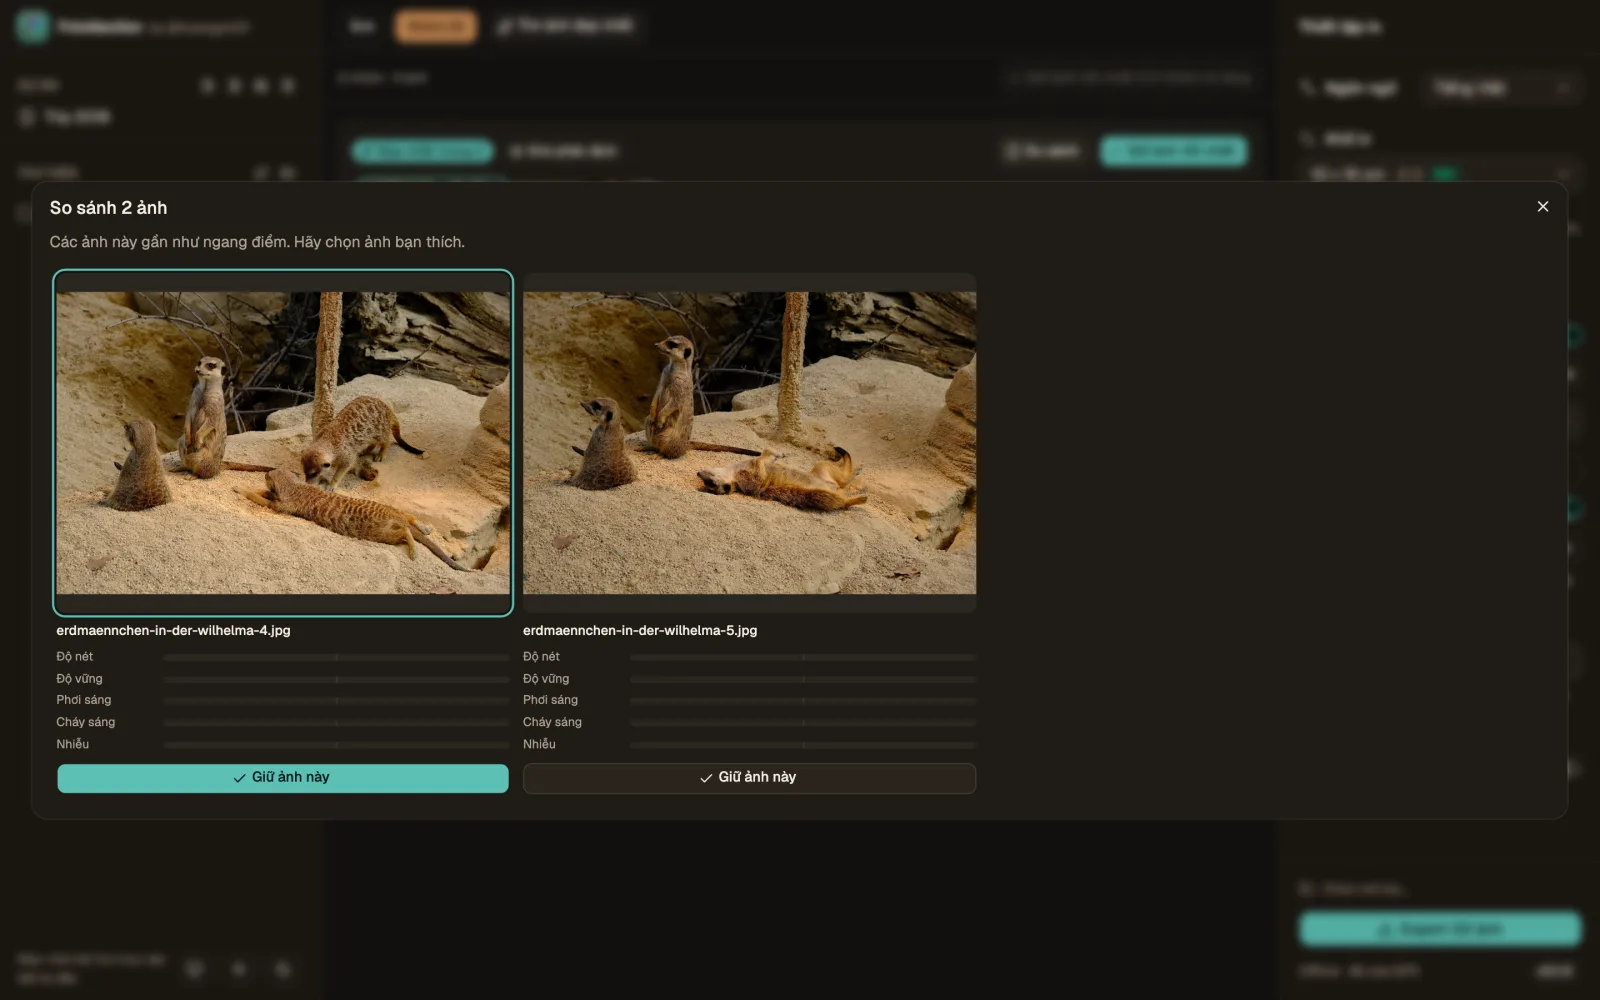
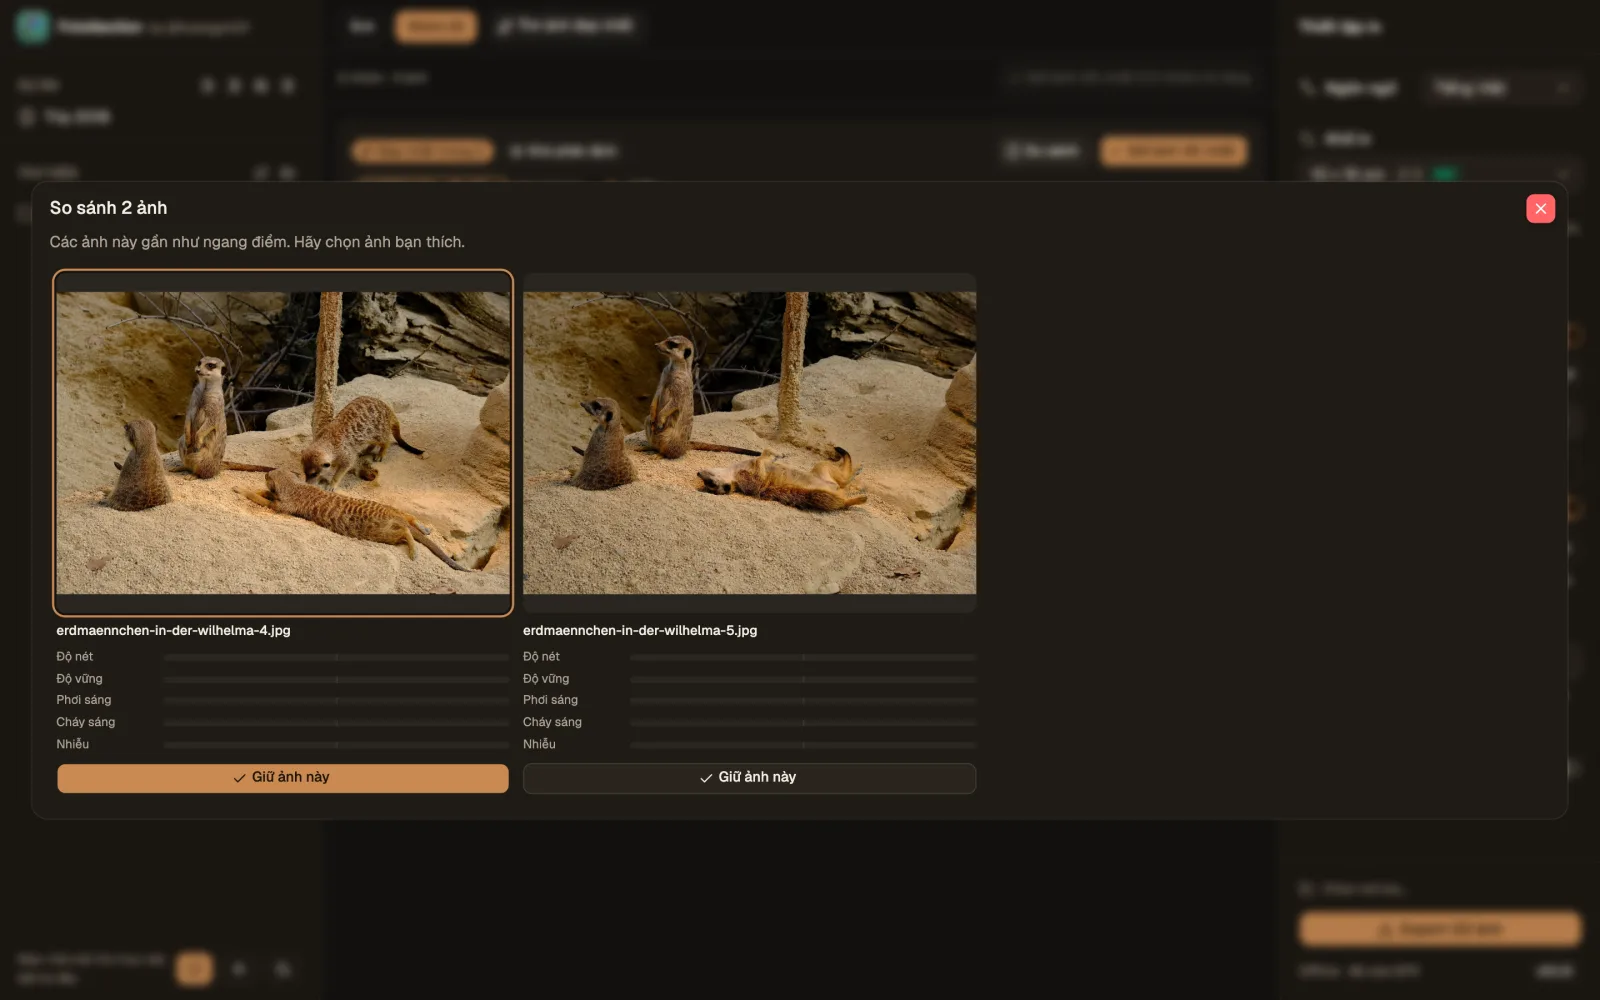
fix(ui): one accent per mode, teal in light and wood in dark; theme switch shows its choice [FR-052]
primary is now the wood colour in dark mode, so buttons, switches,
checkboxes, selection rings and badges change together instead of
mixing teal and brown; the toggle no longer needs its own dark override
and the selected photo ring uses primary. The website's dark mode
follows. The theme switch lost its selected fill because a Radix
tooltip trigger overwrote data-state; it now uses data-hint. STYLE_RULE
§4 records the rule. Website screenshots regenerated.

diff --git a/ui/src/index.css b/ui/src/index.css
@@ -51,8 +51,8 @@
 }
 
 :root {
-    /* Colours from the logo (STYLE_RULE §4): the teal tile for primary actions, the wooden
-       frame as the second brand colour, a faint cream around the chrome. Surfaces next to
+    /* Colours from the logo (STYLE_RULE §4): primary is the teal tile in light mode and the
+       wooden frame in dark mode, never both at once; a faint cream around the chrome. Surfaces next to
        photos stay close to neutral (chroma ≤ 0.01) so they don't shift how colours read. */
     --background: oklch(0.988 0.006 88);
     --foreground: oklch(0.2 0.015 65);
@@ -97,18 +97,18 @@
     --card-foreground: oklch(0.95 0.015 85);
     --popover: oklch(0.225 0.012 70);
     --popover-foreground: oklch(0.95 0.015 85);
-    --primary: oklch(0.744 0.096 185);
-    --primary-foreground: oklch(0.2 0.03 180);
+    --primary: oklch(0.685 0.106 61.2);
+    --primary-foreground: oklch(0.2 0.03 60);
     --secondary: oklch(0.28 0.016 70);
     --secondary-foreground: oklch(0.95 0.015 85);
     --muted: oklch(0.27 0.012 70);
     --muted-foreground: oklch(0.72 0.025 80);
-    --accent: oklch(0.3 0.035 180);
+    --accent: oklch(0.3 0.035 60);
     --accent-foreground: oklch(0.95 0.015 85);
     --destructive: oklch(0.704 0.191 22.216);
     --border: oklch(0.95 0.03 85 / 11%);
     --input: oklch(0.95 0.03 85 / 16%);
-    --ring: oklch(0.687 0.093 187.1);
+    --ring: oklch(0.685 0.106 61.2);
     --wood: oklch(0.685 0.106 61.2);
     --wood-foreground: oklch(0.2 0.03 60);
     --chart-1: oklch(0.744 0.096 185);
@@ -118,12 +118,12 @@
     --chart-5: oklch(0.6 0.104 54);
     --sidebar: oklch(0.21 0.012 70);
     --sidebar-foreground: oklch(0.95 0.015 85);
-    --sidebar-primary: oklch(0.744 0.096 185);
-    --sidebar-primary-foreground: oklch(0.2 0.03 180);
+    --sidebar-primary: oklch(0.685 0.106 61.2);
+    --sidebar-primary-foreground: oklch(0.2 0.03 60);
     --sidebar-accent: oklch(0.27 0.016 70);
     --sidebar-accent-foreground: oklch(0.95 0.015 85);
     --sidebar-border: oklch(0.95 0.03 85 / 10%);
-    --sidebar-ring: oklch(0.687 0.093 187.1);
+    --sidebar-ring: oklch(0.685 0.106 61.2);
 }
 
 @layer base {

diff --git a/ui/src/components/ui/toggle.tsx b/ui/src/components/ui/toggle.tsx
@@ -4,7 +4,7 @@ import { cn } from "cn"
 import { Toggle as TogglePrimitive } from "radix-ui"
 
 const toggleVariants = cva(
-  "group/toggle inline-flex items-center justify-center gap-1 rounded-lg text-sm font-medium whitespace-nowrap transition-all outline-none hover:bg-muted hover:text-foreground focus-visible:border-ring focus-visible:ring-[3px] focus-visible:ring-ring/50 disabled:pointer-events-none disabled:opacity-50 aria-invalid:border-destructive aria-invalid:ring-destructive/20 aria-pressed:bg-primary aria-pressed:text-primary-foreground data-[state=on]:border-primary data-[state=on]:bg-primary data-[state=on]:text-primary-foreground data-[state=on]:hover:bg-primary/90 dark:aria-pressed:bg-wood dark:aria-pressed:text-wood-foreground dark:data-[state=on]:border-wood dark:data-[state=on]:bg-wood dark:data-[state=on]:text-wood-foreground dark:data-[state=on]:hover:bg-wood/90 dark:aria-invalid:ring-destructive/40 [&_svg]:pointer-events-none [&_svg]:shrink-0 [&_svg:not([class*='size-'])]:size-4",
+  "group/toggle inline-flex items-center justify-center gap-1 rounded-lg text-sm font-medium whitespace-nowrap transition-all outline-none hover:bg-muted hover:text-foreground focus-visible:border-ring focus-visible:ring-[3px] focus-visible:ring-ring/50 disabled:pointer-events-none disabled:opacity-50 aria-invalid:border-destructive aria-invalid:ring-destructive/20 aria-pressed:bg-primary aria-pressed:text-primary-foreground data-[state=on]:border-primary data-[state=on]:bg-primary data-[state=on]:text-primary-foreground data-[state=on]:hover:bg-primary/90 dark:aria-invalid:ring-destructive/40 [&_svg]:pointer-events-none [&_svg]:shrink-0 [&_svg:not([class*='size-'])]:size-4",
   {
     variants: {
       variant: {

diff --git a/ui/src/features/appearance/theme-switch.tsx b/ui/src/features/appearance/theme-switch.tsx
@@ -3,7 +3,6 @@ import { Monitor, Moon, Sun } from 'lucide-react'
 import { useEffect } from 'react'
 import { useTranslation } from 'react-i18next'
 import { ToggleGroup, ToggleGroupItem } from '@/components/ui/toggle-group'
-import { Tooltip, TooltipContent, TooltipTrigger } from '@/components/ui/tooltip'
 import { useUiSettings } from '@/features/settings/use-ui-settings'
 import type { ThemePreference } from '@/ipc/bindings'
 import { setThemePreference } from '@/lib/theme'
@@ -31,18 +30,16 @@ export function ThemeSwitch() {
       aria-label={t('theme.label')}
     >
       {OPTIONS.map(({ value, Icon }) => (
-        <Tooltip key={value}>
-          <TooltipTrigger asChild>
-            <ToggleGroupItem
-              value={value}
-              aria-label={t(`theme.${value}`)}
-              className="px-2"
-            >
-              <Icon className="size-3.5" />
-            </ToggleGroupItem>
-          </TooltipTrigger>
-          <TooltipContent>{t(`theme.${value}`)}</TooltipContent>
-        </Tooltip>
+        // A Radix tooltip trigger would overwrite the item's data-state, hiding which one is on.
+        <ToggleGroupItem
+          key={value}
+          value={value}
+          aria-label={t(`theme.${value}`)}
+          data-hint={t(`theme.${value}`)}
+          className="px-2"
+        >
+          <Icon className="size-3.5" />
+        </ToggleGroupItem>
       ))}
     </ToggleGroup>
   )

diff --git a/site/assets/css/site.css b/site/assets/css/site.css
@@ -92,8 +92,8 @@
     --ink-2: #d8cab0;
     --muted: #a8977c;
     --line: #3b3127;
-    --brand: #5cc0b4;
-    --brand-ink: #11211d;
+    --brand: #c98a52;
+    --brand-ink: #1c1712;
     --teal: #5cc0b4;
     --wood: #c98a52;
     --accent: #e3a067;
@@ -253,7 +253,7 @@ p { margin: 0; }
 .footer-base { display: flex; flex-direction: column; gap: 6px; margin-top: 28px; font-size: 0.85rem; }
 .footer-base a { color: inherit; }
 
-a:focus-visible, .button:focus-visible { outline: 2px solid var(--teal); outline-offset: 3px; }
+a:focus-visible, .button:focus-visible { outline: 2px solid var(--brand); outline-offset: 3px; }
 
 @media (min-width: 640px) {
   :root { --gutter: 24px; }

diff --git a/ui/src/features/library/thumb-tile.tsx b/ui/src/features/library/thumb-tile.tsx
@@ -44,8 +44,8 @@ export const ThumbTile = memo(function ThumbTile({
       onDoubleClick={onOpen}
       className={cn(
         'group relative shrink-0 overflow-hidden rounded-md bg-muted outline-none',
-        // The selected photo sits in a wooden frame, like the logo's.
-        selected && 'ring-[3px] ring-wood ring-offset-2 ring-offset-background',
+        // The selected photo is framed in the theme colour (teal in light, wood in dark).
+        selected && 'ring-[3px] ring-primary ring-offset-2 ring-offset-background',
       )}
       style={{ width: size, height: size }}
     >

diff --git a/docs/STYLE_RULE.md b/docs/STYLE_RULE.md
@@ -77,9 +77,9 @@ The stack is React + TypeScript + Tailwind + shadcn/ui + Lucide ([ADR-0007](adr/
 - **Icons:** Lucide only (`lucide-react`). Import icons individually (`import { Crop } from "lucide-react"`). Default size is 16 px in dense UI and 20 px in toolbars, at the default stroke width. Icon-only buttons must have an `aria-label` and a tooltip.
 - **Styling:** use Tailwind utility classes and the shadcn theme tokens (`bg-background`, `text-muted-foreground`…). Never hard-code colours. Merge classes with `cn()` from `lib/utils.ts`. Use a 4 px spacing scale (Tailwind default).
 - Light and dark themes follow the OS setting, using shadcn's CSS-variable theming.
-- **Brand theme from the logo** (`ui/src/index.css`): `primary` is the logo's teal tile, the extra `wood` token is its wooden frame (the selected photo's ring, accents), the panels carry a faint cream. Use the tokens (`bg-primary`, `ring-wood`), never the hex values. **Photos are judged on neutral ground:** surfaces right around photos keep a chroma of 0.01 or less, and the preview stage stays neutral black, so the theme never shifts how a photo's colours read. The website (`site/`) uses the same palette.
+- **Brand theme from the logo** (`ui/src/index.css`): **one accent per mode, never mixed:** `primary` is the logo's teal tile in light mode and its wooden frame in dark mode. Buttons, switches, checkboxes, the selected photo's ring, badges and focus rings all use `primary`, so they change together. The panels carry a faint cream (light) or warm brown (dark). Use the tokens (`bg-primary`, `ring-primary`), never the hex values. **Photos are judged on neutral ground:** surfaces right around photos keep a chroma of 0.01 or less, and the preview stage stays neutral black, so the theme never shifts how a photo's colours read. The website (`site/`) follows the same rule.
 - **Logo:** at 64 px and below, use the **simplified tile** (`assets/logo-small.png`: frame + flower, no wordmark) through `ui/public/brand/mark-{28,56,84}.png`, with `srcSet` for 1x/2x/3x. The same tile supplies the favicon and every app-icon layer up to 64 px (`.ico`, `.icns`, `32x32`, `64x64`, `Square30x30`, `Square44x44`). Never let the webview downscale the full logo: WebKit's resampling turns its fine line art and text into noise. Regenerate all of these with `python3 scripts/small-icons.py` (Lanczos resampling).
-- **Selected options stand out:** a pressed toggle (segmented choices such as Crop to fill / Fit whole photo, date formats, colours) is filled with `primary` (teal) in light mode and `wood` in dark mode, set once in `ui/src/components/ui/toggle.tsx`. Never style a selected option grey.
+- **Selected options stand out:** a pressed toggle (segmented choices such as Crop to fill / Fit whole photo, date formats, colours) is filled with `primary`, set once in `ui/src/components/ui/toggle.tsx`. Never style a selected option grey.
 - **No native tooltips.** Never use the HTML `title` attribute for hints: put the text in `data-hint` and the app-wide `HintLayer` (`ui/src/components/layout/hint-layer.tsx`) shows it in the app's style. For rich content use shadcn's `Tooltip`.
 - **Switched-off features fold away.** When a section has an on/off switch (date stamp, info frame, place…), its options sit inside `Collapse` (`ui/src/components/layout/collapse.tsx`) so they disappear while it is off, instead of staying on screen dimmed. Folded options are `inert`, so the keyboard skips them.
 - Every action longer than 200 ms shows progress. Every destructive action can be undone or needs confirmation.

diff --git a/CHANGELOG.md b/CHANGELOG.md
@@ -21,10 +21,12 @@ The format is based on [Keep a Changelog](https://keepachangelog.com/en/1.1.0/),
 ### Changed
 
 - **Docs:** `docs/DOCS_GUIDE.md`, one checklist of what to update for each kind of change, including the website; `CLAUDE.md` and the docs index point to it.
+- **One accent per mode:** light mode uses the logo's teal and dark mode its wood for every button, switch, checkbox and selection, never both at once (the website too).
 - Hover hints are drawn in the app's own style instead of the system's square tooltips.
 
 ### Fixed
 
+- The theme switch now shows which theme is selected.
 - The highlight around the suggested best shot was clipped in the compare view and the groups strip.
 
 ## [0.1.0] - 2026-10-24
